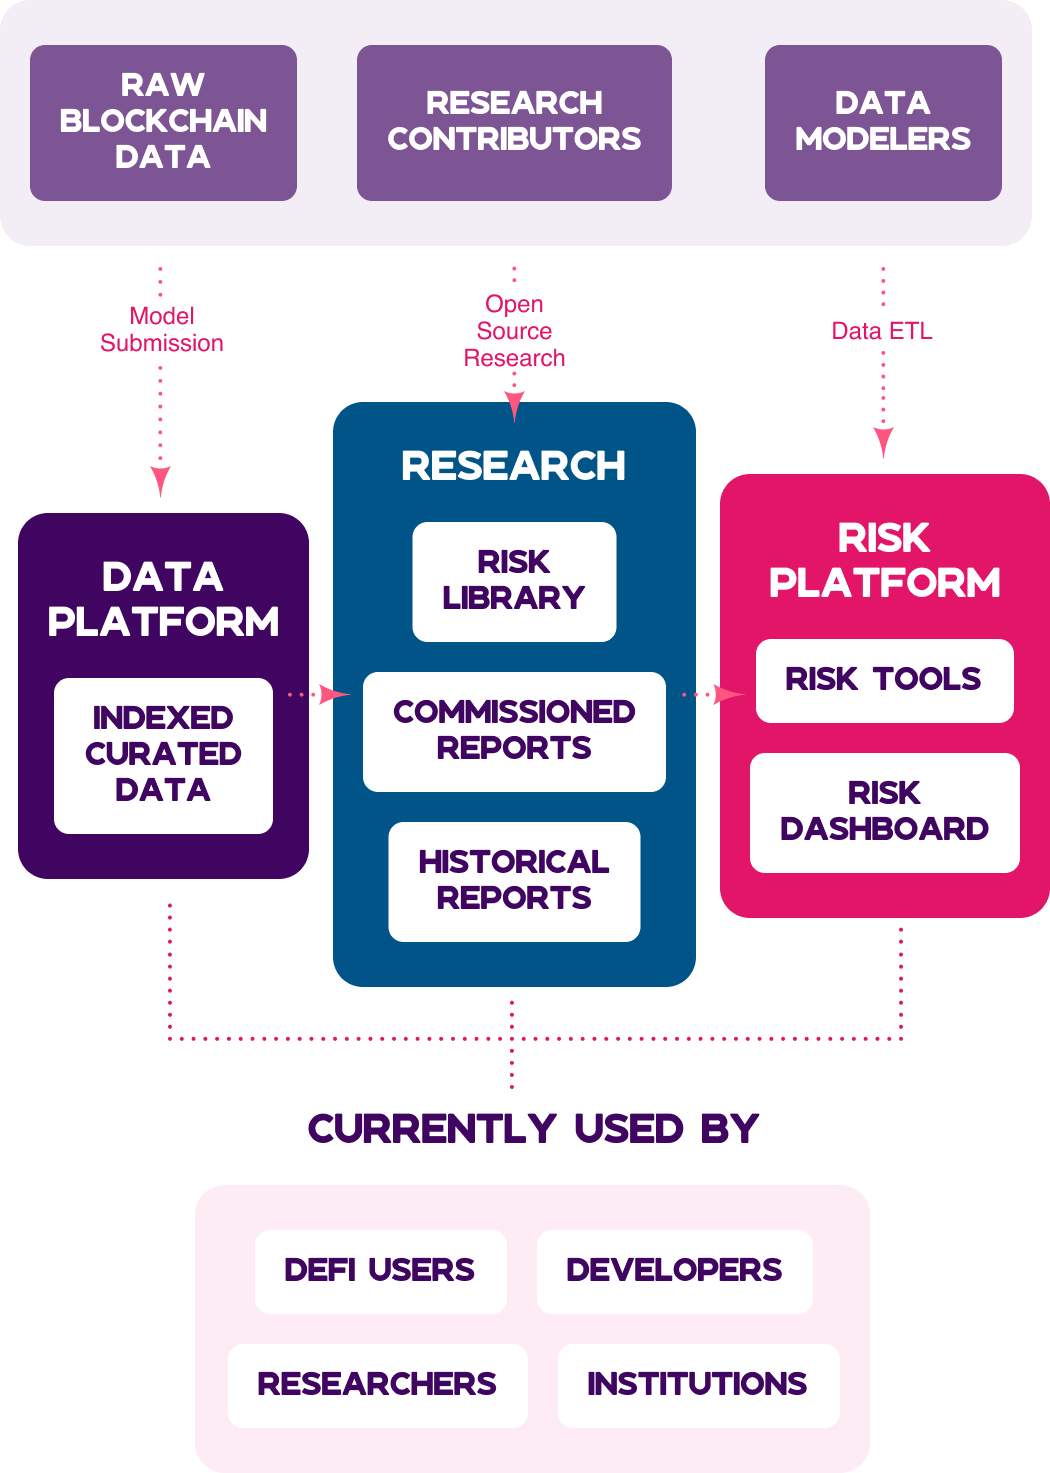
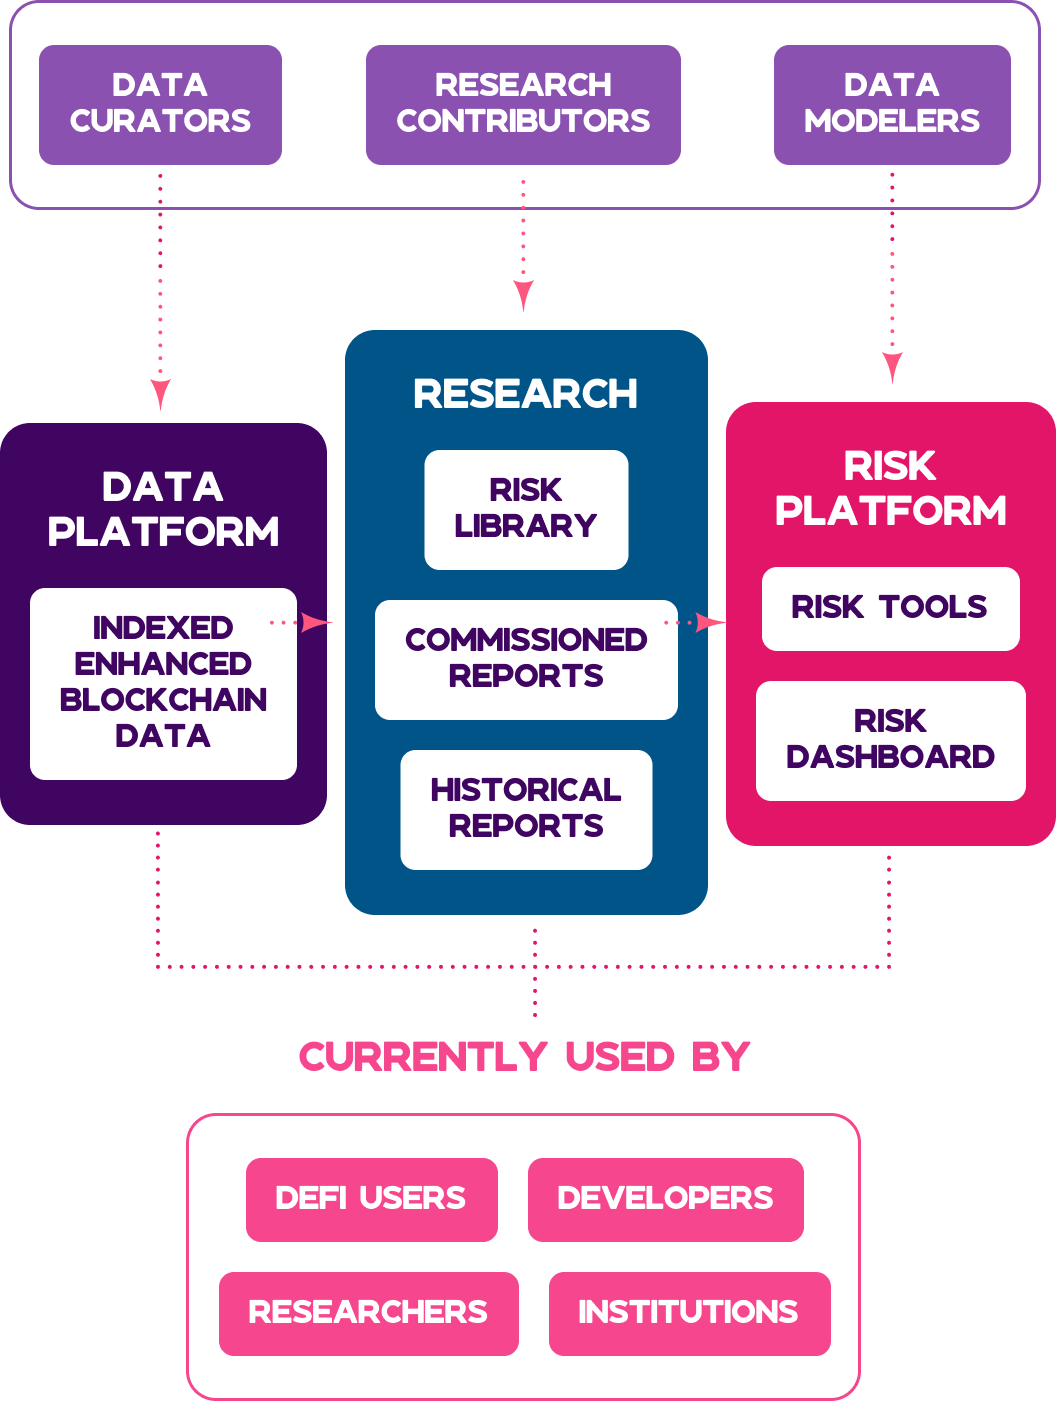
Homepage graphic updated & font bug fixed

diff --git a/credmark-website/tailwind.config.js b/credmark-website/tailwind.config.js
@@ -20,9 +20,6 @@ module.exports = {
       '6': '6px',
       '8': '8px',
     },
-    fontFamily: {
-      'serif': ["Times New Roman"],
-    },
     fontWeight: {
       thin: 200,
       light: 300,
